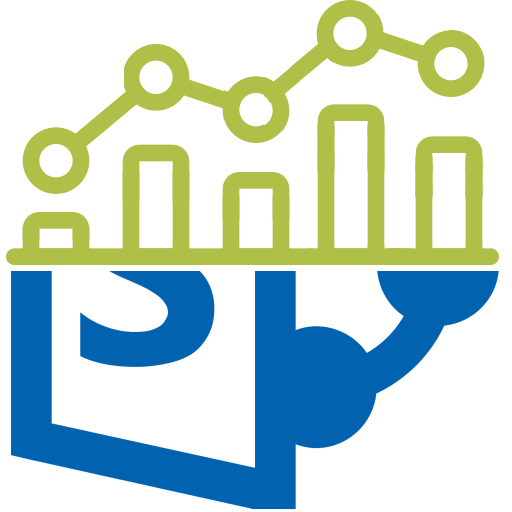
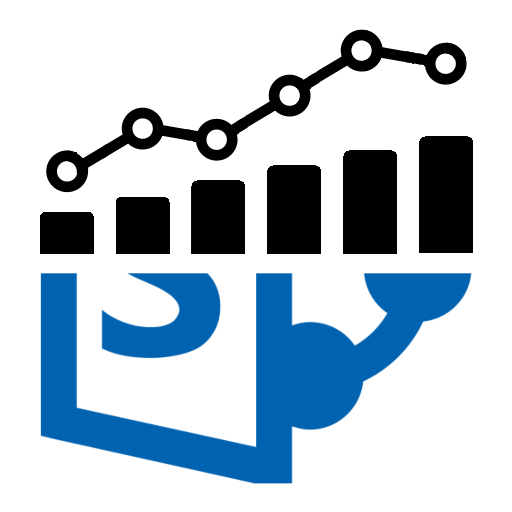
képek

diff --git a/index.html b/index.html
@@ -160,7 +160,7 @@
                   </div>
                   <div class="col-md-6">
                     <div class="img-box">
-                      <img src="images/hexarit-logo2.png" alt="" />
+                      <img src="images/Main_alkalmazasok_fejl.png" alt="" />
                     </div>
                   </div>
                 </div>

diff --git a/szolgaltatas_ms_powerplatform.html b/szolgaltatas_ms_powerplatform.html
@@ -133,7 +133,7 @@
         <div class="row">
           <div class="col-md-6">
             <div class="img-box">
-              <img src="images/Main_PowerPlatform.png" alt="" />
+              <img src="images/power_automate_black&purple_1000x1000.png" alt=""  height="300" />
             </div>
           </div>
           <div class="col-md-6">
